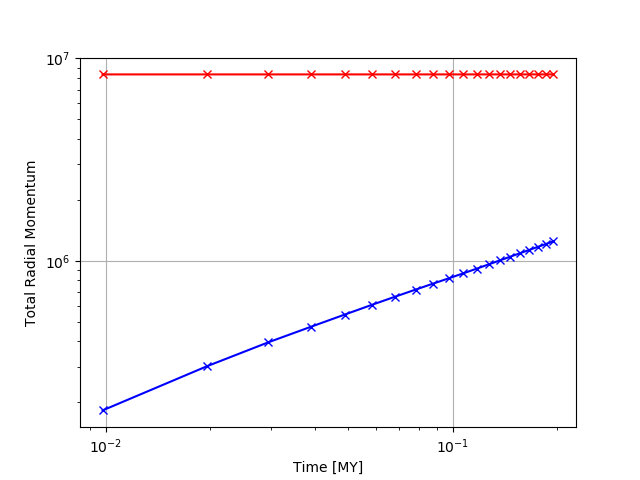
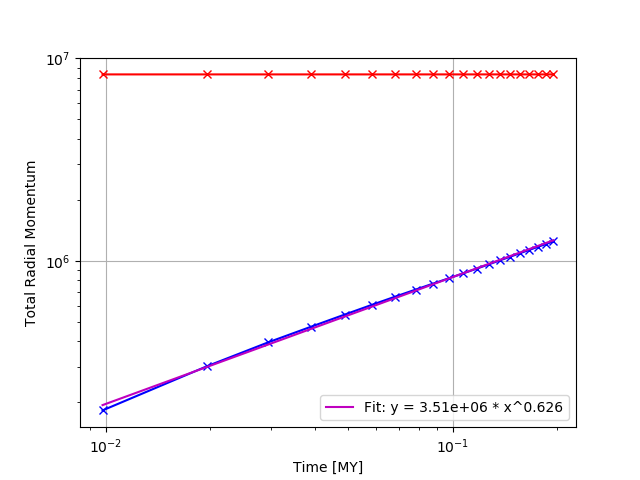
adding fit

diff --git a/spherical1d/polytrope_1d_spherical/check.py b/spherical1d/polytrope_1d_spherical/check.py
@@ -142,7 +142,7 @@ while True:
 
     ################################# Solution analytique #####################################
     rAna[i_snap-1] = (eta*E/scale_E/density_0*scale_d)**0.2*t #pas cgs
-    MassAll[i_snap-1] = Mass.sum()/scale_m
+    MassAll[i_snap-1] = Mass.sum()
    # if MassAll.size == 0:
     #  MassAll = Mass[np.newaxis, :]  # Crée une matrice 2D avec une seule ligne
     #else:
@@ -259,7 +259,22 @@ while True:
   #      sys.exit(1)
 ########################Solution Analytique######################
 vAna = np.gradient(rAna, t)
-RadAna = vAna*MassAll*scale_m
+RadAna = vAna*MassAll
+
+############################# Fit linéaire ###########################################
+
+# Transformation log10
+log_Rad = np.log10(totRadMom)
+log_time = np.log10(time)
+
+# Fit linéaire
+coeffs = np.polyfit(log_time, log_Rad, 1)
+slope, intercept = coeffs
+#print(f"Pente = {slope:.3f}, Ordonnée à l'origine = {intercept:.3f}")
+
+# Courbe de fit
+x_fit = np.linspace(min(time), max(time), 100)
+y_fit = 10**intercept * x_fit**slope
     
 
 ####################################### plots ######################################
@@ -334,10 +349,12 @@ fig.savefig(simulation_directory+"/plots/Tot_Energy")
 fig, ax = plt.subplots()
 ax.plot(time, totRadMom, marker='x', linestyle='-', color='b')
 ax.plot(time, RadAna, marker='x', linestyle='-', color='r')
+plt.loglog(x_fit, y_fit, '-', color='m', label=f'Fit: y = {10**intercept:.3g} * x^{slope:.3g}')
 ax.set_xlabel("Time [MY]")
 ax.set_ylabel("Total Radial Momentum")
 ax.set_xscale("log")
 ax.set_yscale("log")
+plt.legend()
 ax.grid(True)
 fig.savefig(simulation_directory+"/plots/TotalRad")
 
